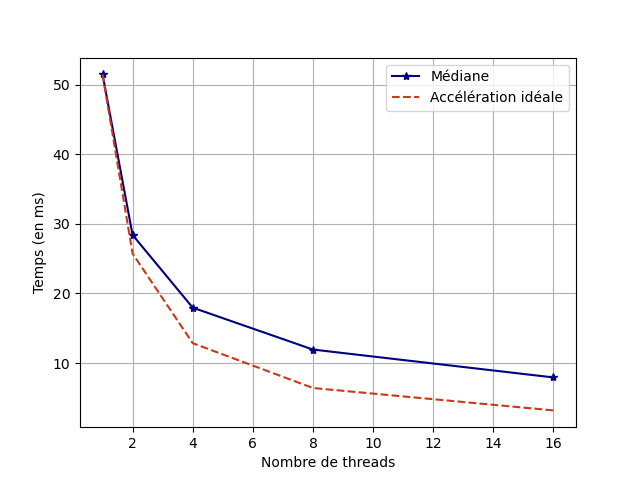
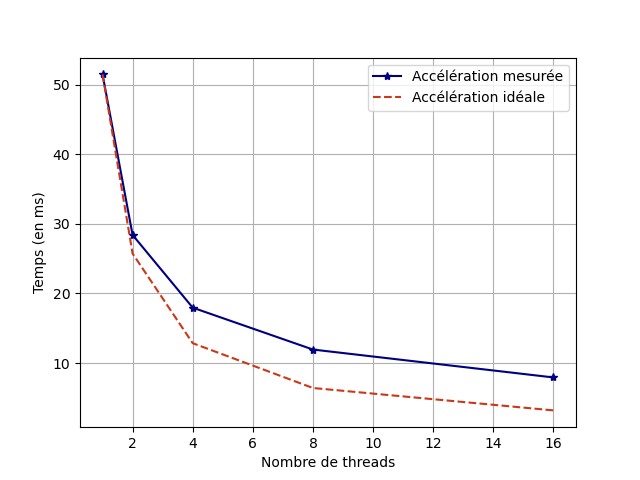
New plots

Changed region(s): [[0.5625, 0.125, 0.875, 0.2188]]

diff --git a/scripts/plot.py b/scripts/plot.py
@@ -3,21 +3,21 @@ import matplotlib.pyplot as plt
 
 x = 2**np.arange(5)
 
-# On récupère les données mpi
-mpi_med = []
-for n in range(5):
-    with open(f'../output_files/output_mpi{2**n}.txt', 'r') as f:
+# On récupère les données mpi v2
+mpi_sum = []
+for n in range(4):
+    with open(f'../output_files/output_mpi{2**n}_v2.txt', 'r') as f:
         for line in f:
             tmp = [float(num) for num in line.split()]
-        mpi_med.append(np.median(tmp)*(2**n))
-
-mpi_med = np.array(mpi_med)
+        mpi_sum.append(np.sum(tmp[:][2]))
+print(mpi_sum)
+mpi_sum = np.array(mpi_sum)
 
 # Plot
 fig, ax = plt.subplots()
-ax.plot(x, mpi_med, marker='*', color='navy', label='Médiane')
-ax.plot(x, x[0]*np.ones(5), linestyle='--', color='#cb3717', label='Accélération idéale')
-ax.set_xlabel('Quantité de travail')
+ax.plot(x[:-1], mpi_sum, marker='*', color='navy', label='Accélération mesurée')
+ax.plot(x[:-1], mpi_sum[0]*np.ones(4), linestyle='--', color='#cb3717', label='Accélération idéale')
+ax.set_xlabel("Nombre de coeurs")
 ax.set_ylabel('Temps (en ms)')
 ax.legend()
 ax.grid(True)
@@ -36,7 +36,7 @@ ideal_omp = omp_med[0] / x
 
 # Plot
 fig, ax = plt.subplots()
-ax.plot(x, omp_med, marker='*', color='navy', label='Médiane')
+ax.plot(x, omp_med, marker='*', color='navy', label='Accélération mesurée')
 ax.plot(x, ideal_omp, linestyle='--', color='#cb3717', label='Accélération idéale')
 ax.set_xlabel('Nombre de threads')
 ax.set_ylabel('Temps (en ms)')
